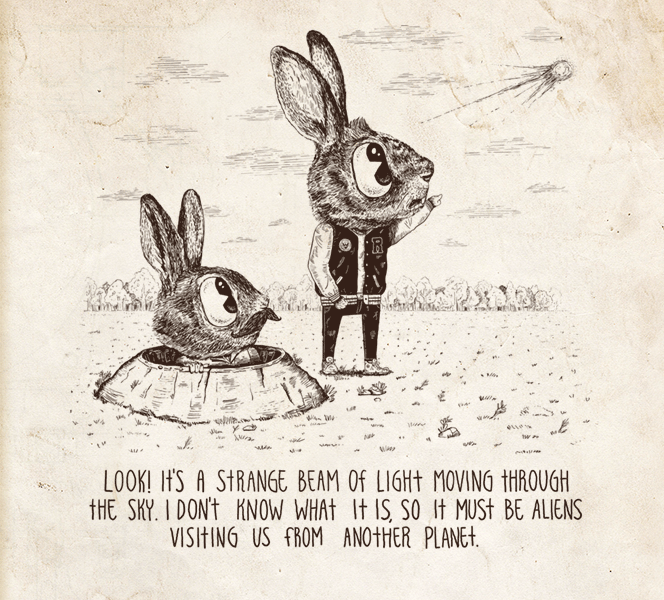
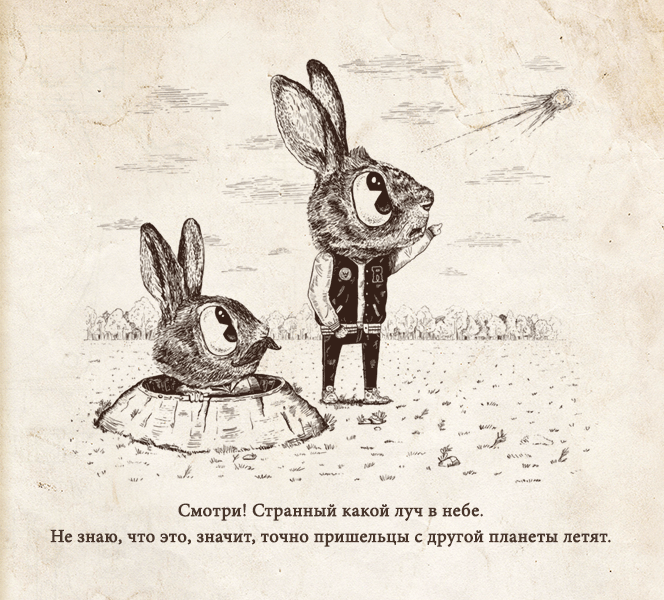
Add illustrations for Russian edition

diff --git a/ru/index.html b/ru/index.html
@@ -12,7 +12,7 @@
         <meta property="og:site_name" content="Нелепые доводы. Иллюстрированный справочник" />
         <meta property="fb:admins" content="542418566" />
 
-        <title>Нелепые доводы. Иллюстрированный справочник</title>
+        <title>Иллюстрированный справочник нелепые доводы</title>
 
         <link rel="stylesheet" href="../css/jquery-ui.css" type="text/css" />
         <link rel="stylesheet" href="../css/colorbox.css" type="text/css" />
@@ -67,18 +67,12 @@
         <img src="../images/stripe_thumb.png" style="display:none" />
 
         <div class="topbar">
-            <img src="../images/bad-choices-ribbon.png" style="position:absolute;top:-21px;left:8px;z-index:999" />
-            <div class="contributors" style='left:60px'>
-                <a href="https://bookofbadchoices.com">
-                    <img class='margie' src="../images/bad-choices.png" style='left:20px' alt='New book -- Bad Choices -- now available for preorder' title='New book -- Bad Choices -- now available for preorder' />
+            <div class="contributors">
+                <a href="https://almossawi.com/pointless-work">
+                    <img src="../images/pointless-work.png" alt="The Point of Pointless Work by Ali Almossawi" title="The Point of Pointless Work by Ali Almossawi" />
                 </a>
             </div>
-            <!--<div class="contributors">
-                <a href="https://github.com/almossawi/badarguments">
-                    <img src="../images/community-heart.png" />
-                </a>
-            </div>-->
-            <a href="/thebook/?from=main_page">
+            <a href="../thebook/?from=main_page">
                 <img src="../images/track_the_book.png" class="buy-the-book" />
             </a>
             <div id="zoom_info"></div>
@@ -124,7 +118,7 @@
                         <span class="translated-into">перевод на русский</span><br />
                         <span class="authors">Шаши Мартыновой</span>
                         <br /><br />
-                        <span class="contact">2013</span>
+                        <span class="contact">10.01.2019</span>
                     </p>
                 </div>  
             </div>
@@ -667,7 +661,7 @@
             </div>
 
             <div id="base-prose">
-                <p style="margin-left:12px">Join the mailing list for occasional news about <i>Bad Arguments</i> and the <a href='https://bookofbadchoices.com' class='underline'>follow-on book&mdash;<i>Bad Choices</i></a>.</p>
+                <p style="margin-left:12px">Join the mailing list for occasional news about <i>Bad Arguments</i>, <a href='https://bookofbadchoices.com' class='underline'><i>Bad Choices</i></a>, and <a href='https://almossawi.com/pointless-work' class='underline'><i>The Point of Pointless Work</i></a>.</p>
 
                 <link href="../css/mailchimp-slim-081711.css" rel="stylesheet" type="text/css">
                 <style type="text/css">
@@ -694,17 +688,21 @@
 
                     <div style="height:15px;clear:both"></div>
                     <div class="copyright-strip">
-                        2013-2017 &middot; <a href="#inline_content" class='inline underline'>See the sketches</a> 
+                        2013-2018 &middot; <a href="#inline_content" class='inline underline'>See the sketches</a> 
                         &middot; <a href="https://github.com/almossawi/badarguments" class='underline'>Get the code</a>
                         <div class="url-link"><a href="https://almossawi.com/bookofbadarguments.html" style="text-decoration:none;color:#c7c7c7">www.bookofbadarguments.com</a></div>
+                        <div class="buy-the-book-bottom"><b><a class='underline' href="/thebook/?from=main_page_bottom" style="color:#c7c7c7">Buy the book in print</a></b></div>
                     </div>
                 </div>
             </div>
 
             <div id="base-news">
+                <div class='announcement'><b>Announcement</b> &middot; <a href="onward/" class='underline'>Signed holiday cards are now available. Orders close November 14.</a></div>
+                <div class='announcement'><b>News</b> &middot; <a href="https://www.reddit.com/r/IAmA/comments/6407oc/im_the_creator_of_an_illustrated_book_of_bad/" class='underline'>I loved answering your questions on Reddit.</a></div>
                 <div class='announcement'><b>News</b> &middot; <a href="https://github.com/almossawi/badarguments#an-illustrated-book-of-bad-arguments" class='underline'>See photos of the book in the wild and other related material.</a></div>
                 <div class='announcement'><b>News</b> &middot; <a href="http://www.abc.net.au/radionational/programs/drive/the-lost-art-of-making-sense/5919286" class='underline'>A conversation with ABC Radio about the art of making sense.</a></div>
-                <div class='announcement'><b>News</b> &middot; <a href="https://twitter.com/alialmossawi/status/526110069348257795" class='underline'>The Book of Bad Arguments website recently crossed 1 million visitors.</a></div>
+                <!--<div class='announcement'><b>News</b> &middot; <a href="https://twitter.com/alialmossawi/status/526110069348257795" class='underline'>The Book of Bad Arguments website recently crossed 1 million visitors.</a></div>-->
+                <!--<div class='announcement'><b>Announcement</b> &middot; <a href="http://www.reddit.com/r/IAmA/comments/2irsu5/hi_reddit_i_created_the_book_of_bad_arguments/" class='underline'>I'll be doing a Reddit Ask Me Anything on October 9 at 1:00PM (ET).</a></div>-->
             </div>
 
             <div style="clear:both;height:20px"></div>
@@ -718,8 +716,8 @@
                 <a href="http://io9.com/a-guide-to-fallacious-arguments-illustrated-with-funny-1273276162"><img src="../images/io9.png" /></a> 
                 <a href="https://laughingsquid.com/an-illustrated-book-of-bad-arguments-logical-fallacies-explained-with-fun-animal-illustrations/"><img src="../images/laughing_squid.png" /></a> 
                 <a href="https://boingboing.net/2014/03/21/bad-arguments-great-illustrat.html"><img src="../images/boingboing.png" /></a> &nbsp;
-                <!--<a href="https://www.reddit.com/r/philosophy/comments/1lcqzu/an_illustrated_book_of_bad_arguments/"><img src="../images/reddit.png" /></a> &nbsp;-->
-                <!--<a href="http://www.philosophynews.com/post/2013/08/21/An-Illustrated-Book-of-Bad-Arguments.aspx"><img src="../images/philosophy_news.png" /></a>--> 
+                <!--<a href="https://www.reddit.com/r/philosophy/comments/1lcqzu/an_illustrated_book_of_bad_arguments/"><img src="images/reddit.png" /></a> &nbsp;-->
+                <!--<a href="http://www.philosophynews.com/post/2013/08/21/An-Illustrated-Book-of-Bad-Arguments.aspx"><img src="images/philosophy_news.png" /></a>--> 
                 <a href="http://www.openculture.com/2015/04/an-illustrated-book-of-bad-arguments.html"><img src="../images/open_culture.png" /></a> 
                 <a href="http://dangerousminds.net/comments/an_illustrated_book_of_bad_arguments_dispatching_the_dumb_one_funny_animal" class="hide-on-mobile"><img src="../images/dangerous_minds.png" /></a> 
             </div>
@@ -763,4 +761,4 @@
         </div>
         <script type="text/javascript" src="js/global.js"></script>
     </body>
-</html>
+</html> 

diff --git a/ru/css/styles.css b/ru/css/styles.css
@@ -131,8 +131,8 @@ div.right p,
 div.left p {
     color: black;
     font-family: Georgia, Times;
-    font-size: 0.75rem;
-    line-height: 18px;
+    font-size: 0.8rem;
+    line-height: 20px;
     text-align: justify;
 }
 
@@ -167,9 +167,11 @@ sub {
 }
 
 .page-content p.footnote {
-    font-size: 0.7rem;
+    font-size: 0.75rem;
     line-height: 14px;
     padding-top: 2px;
+    position: absolute;
+    bottom: -35px;
 }
 
 .page-content p.block {
@@ -240,8 +242,9 @@ a:hover {
 
 .topbar div#zoom_info {
     color: #e6e6e6;
+    font-size: 0.75rem;
     font-weight: 400;
-    letter-spacing: 0;
+    letter-spacing: 0px;
     margin-top: 20px;
     text-align: center;
 }
@@ -361,7 +364,7 @@ div.page-content p.license {
     font-size: 1rem;
     margin: 10px 0 0 50px;
     padding-right: 40px;
-    height: 180px;
+    height: 230px;
     width: 380px;
 }
 
@@ -370,7 +373,7 @@ div.page-content p.license {
     color: #e1ded8;
     float: left;
     font-size: 1rem;
-    height: 165px;
+    height: 215px;
     margin: 10px 0 0 50px;
     padding: 15px 60px 0 0;
     width: 220px;
@@ -446,7 +449,7 @@ p.justify-last:after {
 .loading {
     color: #ccc;
     font-size: 9pt;
-    letter-spacing: 1.2px;
+    letter-spacing: 2px;
     margin: 290px auto 0 auto;
     position: absolute;
     text-align: center;
@@ -676,7 +679,7 @@ div.left p.translated-by span.contact {
 
 div.right p.translated-by span.authors,
 div.left p.translated-by span.authors {
-    font-size: 1.15rem;
+    font-size: 1.4rem;
     font-style: normal;
 }
 
@@ -686,9 +689,15 @@ div.left p.translated-by span.translated-into {
     font-style: normal;
 }
 
-@media (max-width: 1450px) {
+@media (max-width: 1430px) {
     .hide-on-mobile {
         display: none;
+    }
+}
+
+@media (max-width: 1450px) {
+    .in-the-press {
+        width: 104px;
     }
 
     .container-languages,

diff --git a/index.html b/index.html
@@ -110,6 +110,7 @@
                 <a href="/fr/">Français</a>
                 <a href="/jp/">日本語版</a>
                 <a href="/de/">Deutsch</a>
+                <a href="/ru/" class="selected">Pусский</a>
             </div>
         </div>
 
